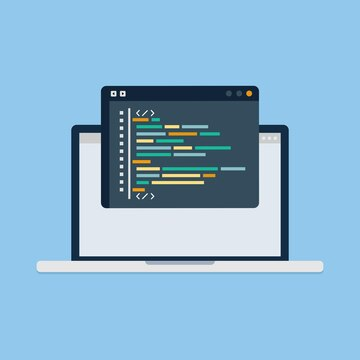
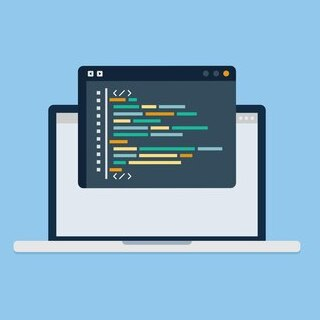
added fun pixel glitch animation to Home page image

Changed region(s): [[0.0312, 0.1875, 0.9375, 0.8125]]

diff --git a/elite-code/src/Home.js b/elite-code/src/Home.js
@@ -1,8 +1,20 @@
-import React from 'react';
+import React, { useState } from 'react';
 import './App.css';
-import home_img from './images/home_img.jpeg'
+import home_img from './images/home_img.jpeg';
 
 function Home() {
+  const [activeCells, setActiveCells] = useState([]);
+
+  const gridSize = 6;
+  const cells = Array(gridSize * gridSize).fill(null);
+
+  const handleMouseOver = (i) => {
+    setActiveCells((prev) => [...prev, i]);
+    setTimeout(() => {
+      setActiveCells((prev) => prev.filter((cell) => cell !== i));
+    }, 700);
+  };
+
   return (
     <div className="home-container">
       <div className="home-text">
@@ -10,8 +22,23 @@ function Home() {
         <p>Get started with improving your coding skills today. Elitecode offers a wide variety of coding problems for you to solve. Are you up for the challenge?</p>
         <button className="home-btn">Get Started</button>
       </div>
-      <div className="home-image">
-        <img src={home_img} alt="img"/>
+      <div className="home-image" style={{ position: 'relative' }}>
+        <img src={home_img} alt="img" />
+        <div style={{ position: 'absolute', top: 0, left: 0, width: '100%', height: '100%', display: 'flex', flexWrap: 'wrap' }}>
+          {cells.map((_, i) => (
+            <div
+              key={i}
+              onMouseOver={() => handleMouseOver(i)}
+              className={activeCells.includes(i) ? 'glitch' : ''}
+              style={{
+                width: `${100 / gridSize}%`,
+                height: `${100 / gridSize}%`,
+                backgroundColor: activeCells.includes(i) ? 'rgba(246, 246, 246, 0.6)' : 'transparent',
+                transition: activeCells.includes(i) ? 'background-color 0.4s' : 'background-color 0.2s',
+              }}
+            />
+          ))}
+        </div>
       </div>
     </div>
   );

diff --git a/elite-code/src/App.css b/elite-code/src/App.css
@@ -297,10 +297,12 @@ textarea {
 
 .submission-status-accepted {
   color: rgb(0, 172, 0);
+  font-weight: bold;
 }
 
 .submission-status-rejected {
   color: red;
+  font-weight: bold;
 }
 
 .submission-time {
@@ -523,9 +525,32 @@ textarea {
   margin-top: 20px;
 }
 
+
 @keyframes loadIn {
   to {
     opacity: 1;
     transform: translateX(0);
   }
 }
+
+
+@keyframes glitch {
+  0% {
+    transform: translate(0px, 0px);
+  }
+  70% {
+    transform: translate(0px, 0px);
+  }
+  80% {
+    transform: translate(4px, -3px);
+  }
+  100% {
+    transform: translate(0px, 0px);
+  }
+}
+
+.glitch {
+  animation: glitch 0.4s;
+}
+
+
